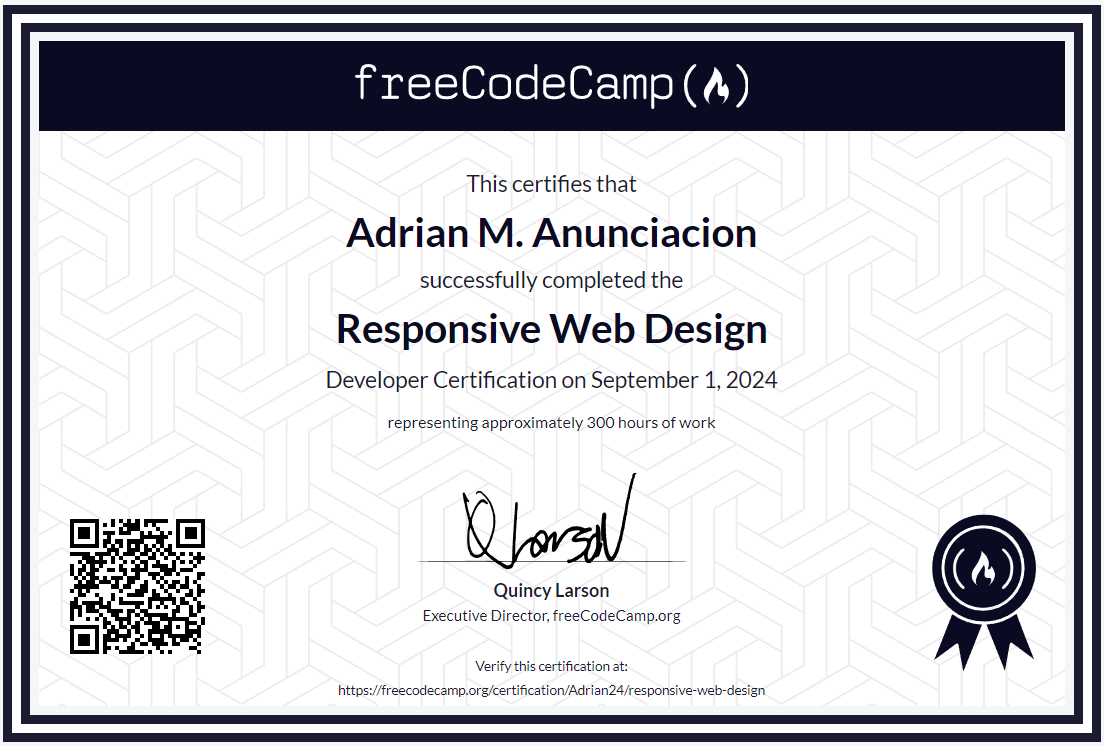
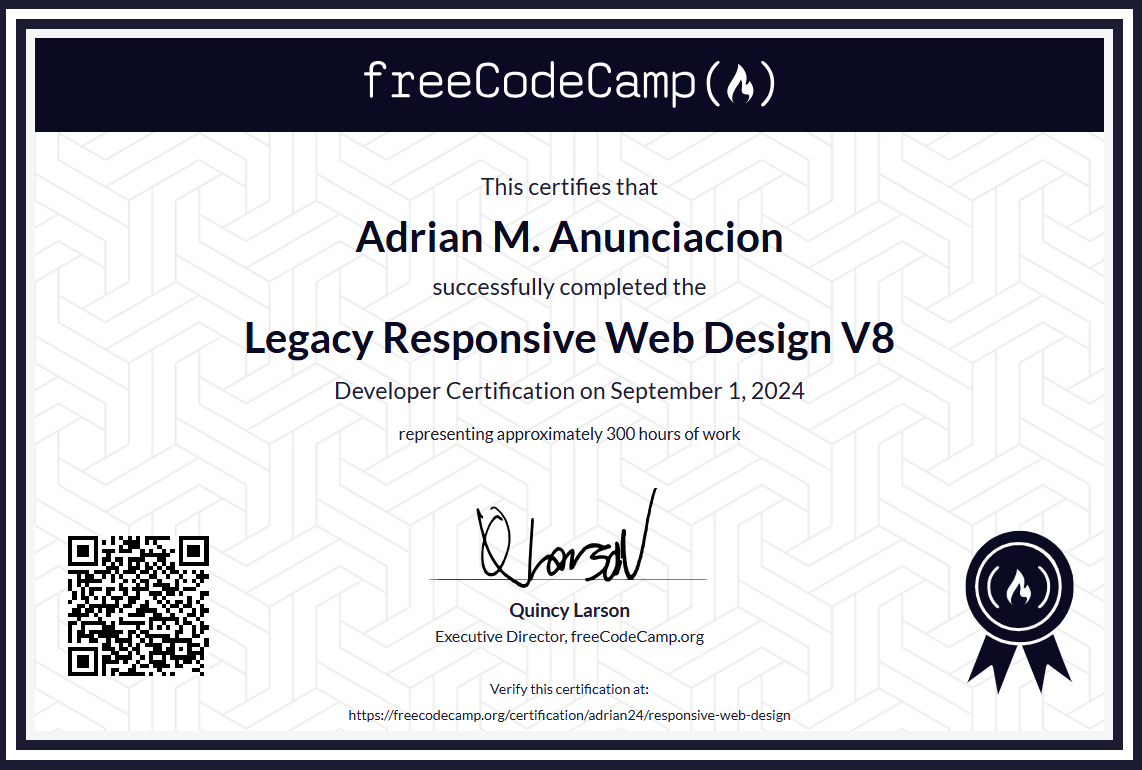
Add files via upload

diff --git a/index.html b/index.html
@@ -52,13 +52,13 @@ a{color:inherit;text-decoration:none}
 /* CUSTOM CURSOR */
 #cur{
   position:fixed;width:10px;height:10px;border-radius:50%;
-  background:var(--accent);pointer-events:none;z-index:9999;
+  background:var(--accent);pointer-events:none;z-index:100001;
   transform:translate(-50%,-50%);transition:width .15s,height .15s,background .15s;
   mix-blend-mode:screen;
 }
 #cur-ring{
   position:fixed;width:36px;height:36px;border-radius:50%;
-  border:1px solid rgba(200,169,126,0.4);pointer-events:none;z-index:9998;
+  border:1px solid rgba(200,169,126,0.4);pointer-events:none;z-index:100000;
   transform:translate(-50%,-50%);transition:transform .08s linear,width .3s var(--ease),height .3s var(--ease),border-color .3s;
 }
 body:has(a:hover) #cur,body:has(button:hover) #cur{width:6px;height:6px}
@@ -890,21 +890,116 @@ body::before{
 
 /* CERTIFICATES */
 .certs-grid{display:grid;grid-template-columns:repeat(2,1fr);gap:12px}
+@media(max-width:540px){.certs-grid{grid-template-columns:1fr}}
 .cert-card{
   background:var(--surface);border:1px solid var(--border);border-radius:var(--r);
   padding:14px;display:flex;align-items:center;gap:12px;
-  transition:border-color .2s;
+  cursor:pointer;position:relative;overflow:hidden;
+  transition:border-color .25s,transform .25s var(--ease),box-shadow .25s,background .25s;
 }
-.cert-card:hover{border-color:var(--border2)}
+.cert-card::after{
+  content:'🔍';position:absolute;top:8px;right:10px;
+  font-size:.65rem;opacity:0;
+  background:rgba(200,169,126,0.15);border:1px solid rgba(200,169,126,0.3);
+  color:var(--accent);padding:2px 7px;border-radius:100px;
+  font-family:var(--sans);font-style:normal;font-size:.65rem;letter-spacing:.04em;
+  content:'View';
+  transition:opacity .2s;
+}
+.cert-card:hover{
+  border-color:var(--accent);
+  transform:translateY(-3px);
+  box-shadow:0 12px 32px rgba(200,169,126,0.12);
+  background:rgba(200,169,126,0.05);
+}
+.cert-card:hover::after{opacity:1}
+.cert-card:active{transform:translateY(-1px) scale(0.99)}
 .cert-thumb{
-  width:48px;height:36px;border-radius:6px;overflow:hidden;
+  width:56px;height:42px;border-radius:6px;overflow:hidden;
   background:var(--bg3);flex-shrink:0;
   display:flex;align-items:center;justify-content:center;
   font-size:1.2rem;
+  border:1px solid var(--border);
+  transition:border-color .25s;
 }
+.cert-card:hover .cert-thumb{border-color:rgba(200,169,126,0.3)}
 .cert-thumb img{width:100%;height:100%;object-fit:cover}
 .cert-name{font-size:.82rem;font-weight:500;margin-bottom:2px}
 .cert-issuer{font-size:.72rem;color:var(--text3);font-family:var(--mono)}
+.cert-date{font-size:.66rem;color:var(--text3);font-family:var(--mono);margin-top:3px;opacity:.7}
+
+/* ── CERT LIGHTBOX MODAL ───────────────────────────────────── */
+.cert-lightbox{
+  position:fixed;inset:0;z-index:10000;
+  display:flex;align-items:center;justify-content:center;
+  padding:20px;
+  background:rgba(8,8,16,0);
+  backdrop-filter:blur(0px);
+  pointer-events:none;
+  transition:background .3s,backdrop-filter .3s;
+}
+.cert-lightbox.open{
+  background:rgba(8,8,16,0.88);
+  backdrop-filter:blur(16px);
+  pointer-events:all;
+}
+.cert-lightbox-inner{
+  max-width:800px;width:100%;
+  background:var(--bg2);
+  border:1px solid var(--border2);
+  border-radius:var(--r2);
+  overflow:hidden;
+  position:relative;
+  transform:scale(0.88) translateY(20px);
+  opacity:0;
+  transition:transform .35s var(--ease-out),opacity .35s;
+  box-shadow:0 40px 80px rgba(0,0,0,0.6),0 0 0 1px rgba(200,169,126,0.08);
+}
+.cert-lightbox.open .cert-lightbox-inner{
+  transform:scale(1) translateY(0);
+  opacity:1;
+}
+.cert-lightbox-header{
+  padding:18px 20px 14px;
+  display:flex;align-items:flex-start;justify-content:space-between;gap:12px;
+  border-bottom:1px solid var(--border);
+}
+.cert-lightbox-meta{display:flex;flex-direction:column;gap:2px}
+.cert-lightbox-name{font-family:var(--serif);font-size:1.05rem;font-weight:700;color:var(--text)}
+.cert-lightbox-issuer{font-size:.75rem;color:var(--accent);font-family:var(--mono);letter-spacing:.06em}
+.cert-lightbox-close{
+  width:34px;height:34px;border-radius:50%;
+  border:1px solid var(--border2);background:transparent;
+  color:var(--text2);cursor:pointer;
+  display:flex;align-items:center;justify-content:center;flex-shrink:0;
+  transition:border-color .2s,color .2s,background .2s;
+  font-size:1rem;line-height:1;
+}
+.cert-lightbox-close:hover{border-color:var(--accent);color:var(--accent);background:rgba(200,169,126,0.08)}
+.cert-lightbox-img-wrap{
+  width:100%;background:var(--bg3);
+  display:flex;align-items:center;justify-content:center;
+  min-height:200px;max-height:60vh;overflow:hidden;
+  position:relative;
+}
+.cert-lightbox-img-wrap img{
+  width:100%;height:100%;object-fit:contain;
+  max-height:60vh;display:block;
+}
+.cert-lightbox-placeholder{
+  font-size:4rem;padding:60px;
+  display:flex;align-items:center;justify-content:center;
+}
+.cert-lightbox-footer{
+  padding:14px 20px;
+  display:flex;align-items:center;justify-content:space-between;gap:12px;flex-wrap:wrap;
+  border-top:1px solid var(--border);
+}
+.cert-lightbox-hint{font-size:.72rem;color:var(--text3);font-family:var(--mono)}
+@media(max-width:600px){
+  .cert-lightbox-inner{border-radius:var(--r)}
+  .cert-lightbox-img-wrap{max-height:50vh}
+}
 
 /* ===== PROJECTS PAGE ===== */
 .projects-full-grid{display:grid;grid-template-columns:repeat(2,1fr);gap:24px}
@@ -1218,7 +1313,7 @@ body::before{
             </div>
 
             <div class="cs">
-              <div class="cs-num">4+</div>
+              <div class="cs-num">12</div>
               <div class="cs-lab">Certificates</div>
             </div>
 
@@ -1550,10 +1645,18 @@ body::before{
           <div class="about-section reveal" style="--delay:.2s">
             <h3>Certificates & Achievements</h3>
             <div class="certs-grid">
-              <div class="cert-card"><div class="cert-thumb"><img src="assets/certificates/thumbs/cc-rwd.png" alt="" onerror="this.style.display='none';this.parentElement.innerHTML='🏆'"/></div><div><div class="cert-name">Responsive Web Design</div><div class="cert-issuer">freeCodeCamp</div></div></div>
-              <div class="cert-card"><div class="cert-thumb"><img src="assets/certificates/thumbs/simplilearn-uiux.png" alt="" onerror="this.style.display='none';this.parentElement.innerHTML='🎨'"/></div><div><div class="cert-name">UI/UX Design Fundamentals</div><div class="cert-issuer">Simplilearn</div></div></div>
-              <div class="cert-card"><div class="cert-thumb"><img src="assets/certificates/thumbs/hubspot-content.png" alt="" onerror="this.style.display='none';this.parentElement.innerHTML='📢'"/></div><div><div class="cert-name">Content Marketing</div><div class="cert-issuer">HubSpot Academy</div></div></div>
-              <div class="cert-card"><div class="cert-thumb"><img src="assets/certificates/thumbs/codegeeks-sleek.png" alt="" onerror="this.style.display='none';this.parentElement.innerHTML='💻'"/></div><div><div class="cert-name">Web Development</div><div class="cert-issuer">CodeGeeks</div></div></div>
+              <div class="cert-card" role="button" tabindex="0" aria-label="View Responsive Web Design certificate" data-full="assets/certificates/cc-rwd1.PNG" data-name="Responsive Web Design" data-issuer="freeCodeCamp" onclick="openCertLightbox(this)" onkeydown="if(event.key==='Enter'||event.key===' ')openCertLightbox(this)"><div class="cert-thumb"><img src="assets/certificates/thumbs/responsive.png" alt="Responsive Web Design" onerror="this.style.display='none';this.parentElement.innerHTML='🏆'"/></div><div><div class="cert-name">Responsive Web Design</div><div class="cert-issuer">freeCodeCamp</div><div class="cert-date">Sep 1, 2024</div></div></div>
+              <div class="cert-card" role="button" tabindex="0" aria-label="View Digital Marketing certificate" data-full="assets/certificates/digimarketing1.png" data-name="Digital Marketing" data-issuer="HubSpot Academy" onclick="openCertLightbox(this)" onkeydown="if(event.key==='Enter'||event.key===' ')openCertLightbox(this)"><div class="cert-thumb"><img src="assets/certificates/thumbs/digimarketing.png" alt="Digital Marketing" onerror="this.style.display='none';this.parentElement.innerHTML='📈'"/></div><div><div class="cert-name">Digital Marketing</div><div class="cert-issuer">HubSpot Academy</div><div class="cert-date">Jul 25, 2025</div></div></div>
+              <div class="cert-card" role="button" tabindex="0" aria-label="View Back-End Development & APIs certificate" data-full="assets/certificates/backend1.png" data-name="Back-End Development & APIs" data-issuer="freeCodeCamp" onclick="openCertLightbox(this)" onkeydown="if(event.key==='Enter'||event.key===' ')openCertLightbox(this)"><div class="cert-thumb"><img src="assets/certificates/thumbs/backend.png" alt="Back-End Development & APIs" onerror="this.style.display='none';this.parentElement.innerHTML='⚙'"/></div><div><div class="cert-name">Back-End Development & APIs</div><div class="cert-issuer">freeCodeCamp</div><div class="cert-date">Aug 27, 2025</div></div></div>
+              <div class="cert-card" role="button" tabindex="0" aria-label="View Introduction to Graphic Design / UI UX certificate" data-full="assets/certificates/simplilearn-uiux1.png" data-name="Intro to Graphic Design / UI·UX" data-issuer="Simplilearn" onclick="openCertLightbox(this)" onkeydown="if(event.key==='Enter'||event.key===' ')openCertLightbox(this)"><div class="cert-thumb"><img src="assets/certificates/thumbs/simplilearn-uiux.png" alt="Intro to Graphic Design / UI UX" onerror="this.style.display='none';this.parentElement.innerHTML='🎨'"/></div><div><div class="cert-name">Intro to Graphic Design / UI·UX</div><div class="cert-issuer">Simplilearn</div><div class="cert-date">Aug 27, 2025</div></div></div>
+              <div class="cert-card" role="button" tabindex="0" aria-label="View Website UI/UX Designing using ChatGPT certificate" data-full="assets/certificates/uiux1.png" data-name="Website UI/UX Designing using ChatGPT" data-issuer="Simplilearn" onclick="openCertLightbox(this)" onkeydown="if(event.key==='Enter'||event.key===' ')openCertLightbox(this)"><div class="cert-thumb"><img src="assets/certificates/thumbs/uiux.png" alt="Website UI/UX Designing using ChatGPT" onerror="this.style.display='none';this.parentElement.innerHTML='🖥'"/></div><div><div class="cert-name">UI/UX Designing using ChatGPT</div><div class="cert-issuer">Simplilearn</div><div class="cert-date">Aug 27, 2025</div></div></div>
+              <div class="cert-card" role="button" tabindex="0" aria-label="View Content Marketing certificate" data-full="assets/certificates/contmarketing1.png" data-name="Content Marketing" data-issuer="HubSpot Academy" onclick="openCertLightbox(this)" onkeydown="if(event.key==='Enter'||event.key===' ')openCertLightbox(this)"><div class="cert-thumb"><img src="assets/certificates/thumbs/contmarkerting.png" alt="Content Marketing" onerror="this.style.display='none';this.parentElement.innerHTML='📝'"/></div><div><div class="cert-name">Content Marketing</div><div class="cert-issuer">HubSpot Academy</div><div class="cert-date">Aug 27, 2025</div></div></div>
+              <div class="cert-card" role="button" tabindex="0" aria-label="View Sleek and Swift Tailwind Workshop certificate" data-full="" data-name="Sleek & Swift: Tailwind & Shadcn/UI Workshop" data-issuer="CodeGeeks" onclick="openCertLightbox(this)" onkeydown="if(event.key==='Enter'||event.key===' ')openCertLightbox(this)"><div class="cert-thumb"><img src="assets/certificates/thumbs/codegeeks-sleek.png" alt="Sleek & Swift Workshop" onerror="this.style.display='none';this.parentElement.innerHTML='💻'"/></div><div><div class="cert-name">Sleek & Swift: Tailwind Workshop</div><div class="cert-issuer">CodeGeeks</div><div class="cert-date">Aug 13, 2025</div></div></div>
+              <div class="cert-card" role="button" tabindex="0" aria-label="View JavaScript Algorithms and Data Structures certificate" data-full="assets/certificates/javascript1.png" data-name="JavaScript Algorithms & Data Structures" data-issuer="freeCodeCamp" onclick="openCertLightbox(this)" onkeydown="if(event.key==='Enter'||event.key===' ')openCertLightbox(this)"><div class="cert-thumb"><img src="assets/certificates/thumbs/javascript.png" alt="JavaScript Algorithms & Data Structures" onerror="this.style.display='none';this.parentElement.innerHTML='📜'"/></div><div><div class="cert-name">JavaScript Algorithms & Data Structures</div><div class="cert-issuer">freeCodeCamp</div><div class="cert-date">Sep 20, 2025</div></div></div>
+              <div class="cert-card" role="button" tabindex="0" aria-label="View Digital Advertising certificate" data-full="assets/certificates/digitalads.png" data-name="Digital Advertising" data-issuer="HubSpot Academy" onclick="openCertLightbox(this)" onkeydown="if(event.key==='Enter'||event.key===' ')openCertLightbox(this)"><div class="cert-thumb"><img src="assets/certificates/thumbs/digiads.png" alt="Digital Advertising" onerror="this.style.display='none';this.parentElement.innerHTML='📢'"/></div><div><div class="cert-name">Digital Advertising</div><div class="cert-issuer">HubSpot Academy</div><div class="cert-date">Oct 4, 2025</div></div></div>
+              <div class="cert-card" role="button" tabindex="0" aria-label="View SEO certificate" data-full="assets/certificates/seo1.png" data-name="SEO Certified" data-issuer="HubSpot Academy" onclick="openCertLightbox(this)" onkeydown="if(event.key==='Enter'||event.key===' ')openCertLightbox(this)"><div class="cert-thumb"><img src="assets/certificates/thumbs/seo.png" alt="SEO Certified" onerror="this.style.display='none';this.parentElement.innerHTML='🔍'"/></div><div><div class="cert-name">SEO Certified</div><div class="cert-issuer">HubSpot Academy</div><div class="cert-date">Jan 6, 2026</div></div></div>
+              <div class="cert-card" role="button" tabindex="0" aria-label="View HubSpot SEO II certificate" data-full="assets/certificates/seo2.1.png" data-name="HubSpot SEO II Certified" data-issuer="HubSpot Academy" onclick="openCertLightbox(this)" onkeydown="if(event.key==='Enter'||event.key===' ')openCertLightbox(this)"><div class="cert-thumb"><img src="assets/certificates/thumbs/seo2.png" alt="HubSpot SEO II" onerror="this.style.display='none';this.parentElement.innerHTML='🔎'"/></div><div><div class="cert-name">HubSpot SEO II Certified</div><div class="cert-issuer">HubSpot Academy</div><div class="cert-date">Jan 23, 2026</div></div></div>
+              <div class="cert-card" role="button" tabindex="0" aria-label="View AWS Cloud Foundations certificate" data-full="assets/certificates/aws1.png" data-name="AWS Cloud Foundations" data-issuer="AWS Academy" onclick="openCertLightbox(this)" onkeydown="if(event.key==='Enter'||event.key===' ')openCertLightbox(this)"><div class="cert-thumb"><img src="assets/certificates/thumbs/aws.png" alt="AWS Cloud Foundations" onerror="this.style.display='none';this.parentElement.innerHTML='☁'"/></div><div><div class="cert-name">AWS Cloud Foundations</div><div class="cert-issuer">AWS Academy</div><div class="cert-date">Mar 12, 2026</div></div></div>
             </div>
           </div>
 
@@ -1996,6 +2099,25 @@ body::before{
   <svg viewBox="0 0 24 24"><path d="M18 15l-6-6-6 6"/></svg>
 </button>
 
+<!-- ── CERTIFICATE LIGHTBOX ─────────────────────────────── -->
+<div id="cert-lightbox" class="cert-lightbox" role="dialog" aria-modal="true" aria-label="Certificate viewer">
+  <div class="cert-lightbox-inner">
+    <div class="cert-lightbox-header">
+      <div class="cert-lightbox-meta">
+        <div class="cert-lightbox-name" id="lb-name"></div>
+        <div class="cert-lightbox-issuer" id="lb-issuer"></div>
+      </div>
+      <button class="cert-lightbox-close" onclick="closeCertLightbox()" aria-label="Close">✕</button>
+    </div>
+    <div class="cert-lightbox-img-wrap" id="lb-img-wrap">
+      <div class="cert-lightbox-placeholder" id="lb-placeholder"></div>
+    </div>
+    <div class="cert-lightbox-footer">
+      <span class="cert-lightbox-hint">Press <kbd style="background:var(--surface);border:1px solid var(--border);border-radius:4px;padding:1px 6px;font-family:var(--mono);font-size:.68rem">Esc</kbd> to close</span>
+    </div>
+  </div>
+</div>
+
 <script>
 // ─── CURSOR ───────────────────────────────────────────────
 const cur = document.getElementById('cur');
@@ -2115,6 +2237,48 @@ const y=new Date().getFullYear();
 // ─── INIT ─────────────────────────────────────────────────
 initReveal();
 animateBars();
+
+// ─── CERT LIGHTBOX ────────────────────────────────────────
+function openCertLightbox(card){
+  const lb = document.getElementById('cert-lightbox');
+  const name = card.dataset.name || '';
+  const issuer = card.dataset.issuer || '';
+  const full = card.dataset.full || '';
+  document.getElementById('lb-name').textContent = name;
+  document.getElementById('lb-issuer').textContent = issuer;
+  const wrap = document.getElementById('lb-img-wrap');
+  const ph = document.getElementById('lb-placeholder');
+  // Remove old img if any
+  const oldImg = wrap.querySelector('img');
+  if(oldImg) oldImg.remove();
+  if(full){
+    ph.style.display='none';
+    const img = document.createElement('img');
+    img.alt = name + ' certificate';
+    img.style.opacity='0';img.style.transition='opacity .3s';
+    img.onload=()=>{img.style.opacity='1'};
+    img.onerror=()=>{
+      img.remove();
+      const emoji = {freeCodeCamp:'🏆',Simplilearn:'🎨','HubSpot Academy':'📢',CodeGeeks:'💻'}[issuer]||'📜';
+      ph.textContent=emoji;ph.style.display='flex';
+    };
+    img.src=full;
+    wrap.insertBefore(img,ph);
+  } else {
+    const emoji = {freeCodeCamp:'🏆',Simplilearn:'🎨','HubSpot Academy':'📢',CodeGeeks:'💻'}[issuer]||'📜';
+    ph.textContent=emoji;ph.style.display='flex';
+  }
+  lb.classList.add('open');
+  document.body.style.overflow='hidden';
+  // Close on backdrop click
+  lb.onclick=function(e){if(e.target===lb)closeCertLightbox()};
+}
+function closeCertLightbox(){
+  const lb=document.getElementById('cert-lightbox');
+  lb.classList.remove('open');
+  document.body.style.overflow='';
+}
+document.addEventListener('keydown',e=>{if(e.key==='Escape')closeCertLightbox()});
 
 // ─── ABOUT IMAGE SLIDER ─────────────────────────
 const slides = document.querySelectorAll('.slide');
